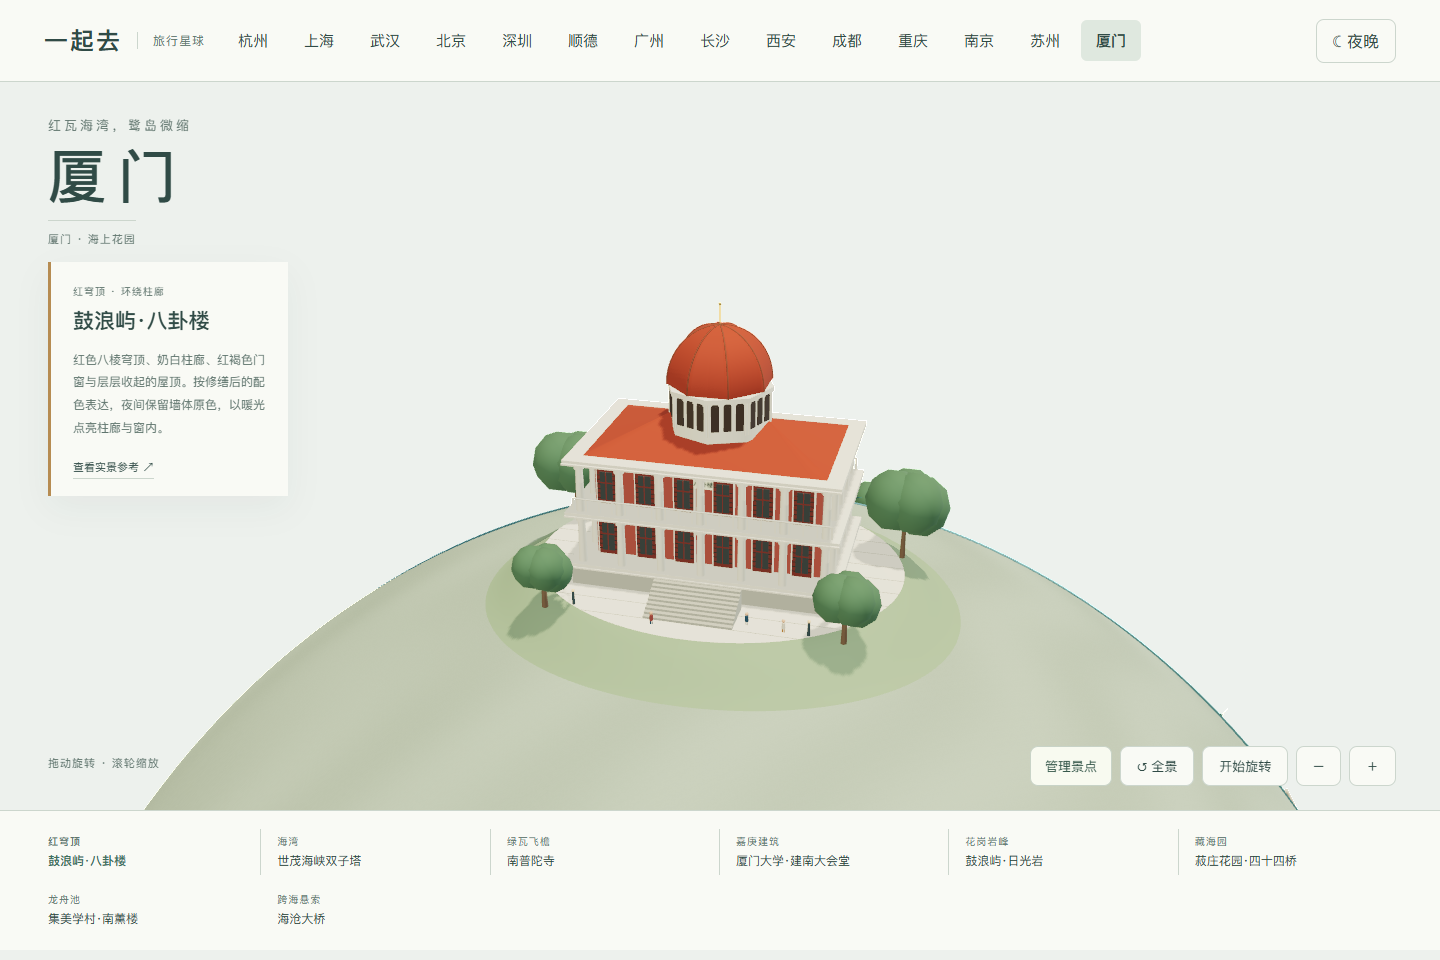
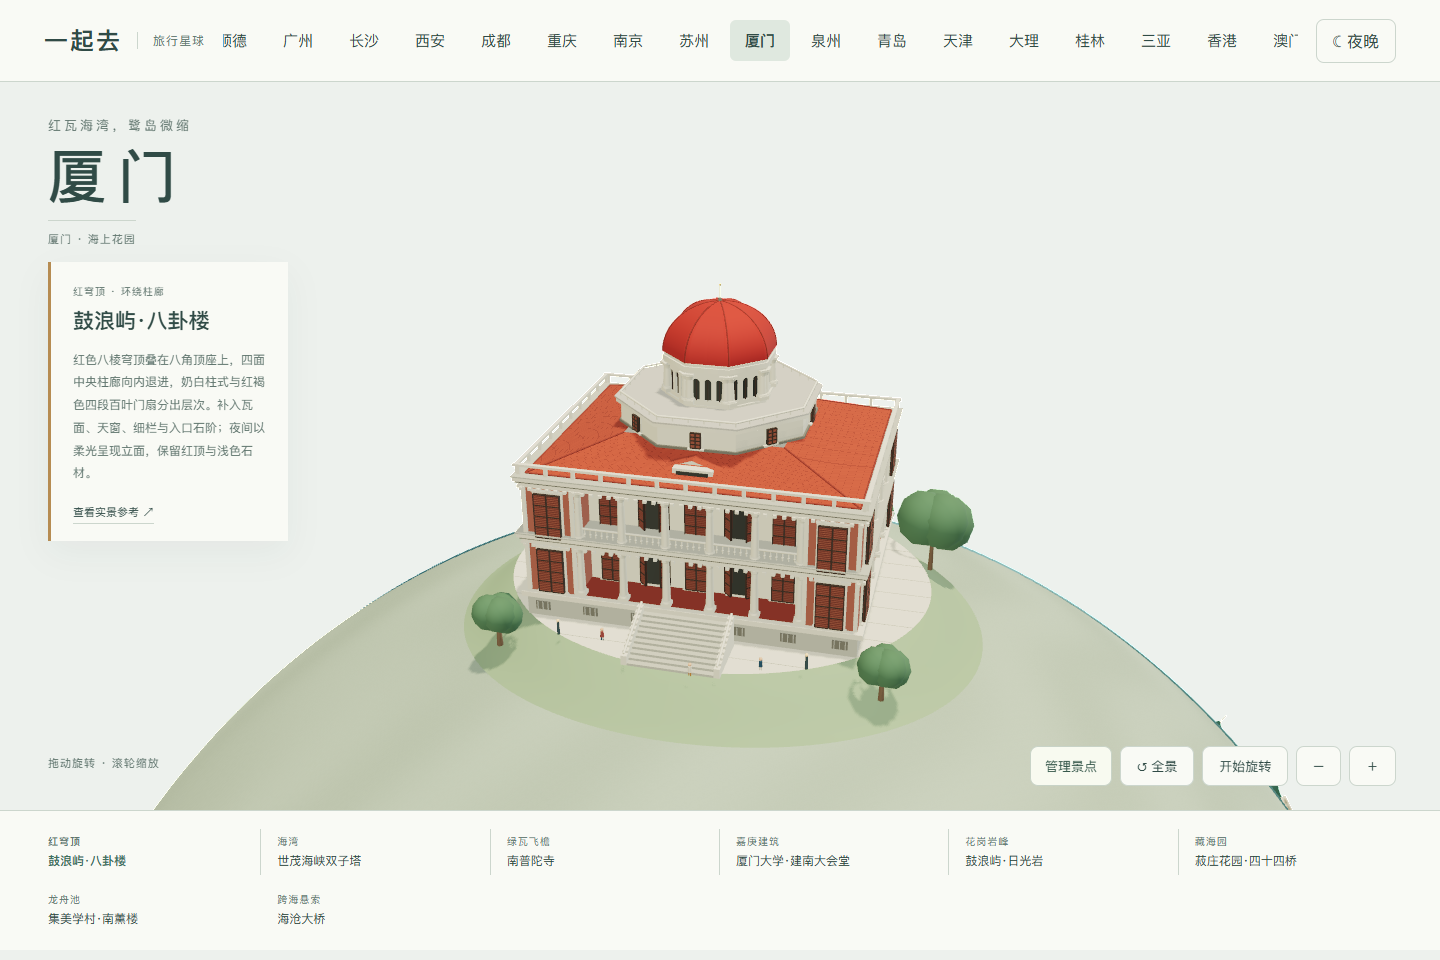
Rebuild Bagua House porticoes, shutters and octagonal roof tiers

diff --git a/web/xiamen-bagua.js b/web/xiamen-bagua.js
@@ -1,0 +1,57 @@
+import * as THREE from 'three';
+import {palette,site,paving,grove,sign,finish,skin,TAU,edge} from './xiamen-kit.js';
+
+function face(k,g,points,m){const pos=[];for(let i=1;i<points.length-1;i++)pos.push(...points[0],...points[i],...points[i+1]);const geo=new THREE.BufferGeometry();geo.setAttribute('position',new THREE.Float32BufferAttribute(pos,3));geo.computeVertexNormals();m.side=THREE.DoubleSide;return k.mesh(g,geo,m);}
+function tile(k){const m=k.mat('#a74932',.91,.015);m.onBeforeCompile=s=>{s.vertexShader='varying vec3 baguaTile;\n'+s.vertexShader.replace('#include <begin_vertex>','#include <begin_vertex>\nbaguaTile=position;');s.fragmentShader='varying vec3 baguaTile;\n'+s.fragmentShader.replace('#include <color_fragment>',`#include <color_fragment>
+ vec2 t=vec2(baguaTile.x+baguaTile.z,baguaTile.y)*180.0;
+ float joint=step(.055,fract(t.x))*step(.045,fract(t.y));
+ float variation=fract(sin(dot(floor(t),vec2(12.989,78.233)))*43758.5453);
+ diffuseColor.rgb*=mix(.77,.94+variation*.07,joint);`);};m.customProgramCacheKey=()=> 'bagua-red-tile-v1';return m;}
+function column(k,g,p,x,y,z,h){
+ k.box(g,.024,.009,.024,p.pale,x,y+.0045,z);k.cyl(g,.012,.013,.005,p.pale,x,y+.011,z,16);k.cyl(g,.0077,.010,h-.030,p.pale,x,y+h/2,z,20);k.cyl(g,.010,.008,.006,p.pale,x,y+h-.014,z,16);k.cyl(g,.013,.010,.005,p.pale,x,y+h-.0085,z,16);k.box(g,.026,.005,.026,p.pale,x,y+h-.003,z);
+}
+function balustrade(k,g,p,a,b,y){const av=new THREE.Vector3(...a),bv=new THREE.Vector3(...b),length=av.distanceTo(bv);for(const dy of [.004,.032])k.beam(g,[a[0],y+dy,a[2]],[b[0],y+dy,b[2]],.003,p.pale);const n=Math.max(2,Math.round(length/.014));for(let i=0;i<=n;i++){const q=av.clone().lerp(bv,i/n);k.cyl(g,.0018,.0018,.026,p.pale,q.x,y+.018,q.z,8);k.ball(g,.0031,p.pale,q.x,y+.018,q.z);}}
+function shutter(k,g,p,x,y,z,w=.048,h=.108,rotation=0,open=false){const f=new THREE.Group();f.position.set(x,y,z);f.rotation.y=rotation;g.add(f);k.box(f,w+.008,h+.009,.006,p.pale,0,0,0);k.box(f,w,h,.007,p.glass,0,0,.002);
+ for(const side of [-1,1]){const panel=new THREE.Group();panel.position.set(side*w*.25,0,.007);if(open){panel.position.x=side*w*.48;panel.rotation.y=side*.78;}f.add(panel);const pw=w*.48;k.box(panel,pw,h,.003,p.shutter);for(const x2 of [-pw/2,pw/2])k.box(panel,.002,h,.005,p.wood,x2,0,.002);for(let i=0;i<=4;i++)k.box(panel,pw,.003,.005,p.wood,0,(i/4-.5)*h,.002);for(let i=0;i<24;i++){const o=k.box(panel,pw-.004,.0018,.0036,p.slats,0,(i/24-.48)*h,.002);o.rotation.x=-.25;}}
+ k.box(f,w+.014,.004,.012,p.pale,0,-h/2-.005,.002);k.box(f,w+.012,.004,.009,p.pale,0,h/2+.006,.002);
+}
+function cornice(k,g,p,w,d,y){for(const [h,scale,dy,mat]of [[.010,1,-.008,p.pale],[.004,1.012,0,p.shadow],[.009,1.024,.007,p.pale],[.003,1.031,.014,p.stone]])k.box(g,w*scale,h,d*scale,mat,0,y+dy,0);for(const side of [-1,1]){for(let i=0;i<38;i++)k.box(g,.008,.007,.009,p.pale,(i/37-.5)*(w-.018),y-.016,side*(d/2+.001));for(let i=0;i<28;i++)k.box(g,.009,.007,.008,p.pale,side*(w/2+.001),y-.016,(i/27-.5)*(d-.018));}}
+function hipRoof(k,g,p,w,d,y,h){const out=[[-w/2,y,-d/2],[w/2,y,-d/2],[w/2,y,d/2],[-w/2,y,d/2]],inner=[[-.195,y+h,-.165],[.195,y+h,-.165],[.195,y+h,.165],[-.195,y+h,.165]];for(let i=0;i<4;i++){const j=(i+1)%4;face(k,g,[out[i],inner[i],inner[j],out[j]],p.tile);k.beam(g,out[i],inner[i],.0023,p.red);k.beam(g,out[i],out[j],.0022,p.red);}
+ // Shallow dormer windows sit on each roof slope, rather than a flat red slab.
+ for(const side of [-1,1]){const f=new THREE.Group();f.rotation.y=side===1?0:Math.PI;g.add(f);k.box(f,.096,.022,.022,p.pale,0,y+.021,.253);k.box(f,.076,.011,.003,p.glass,0,y+.021,.266);face(k,f,[[-.059,y+.035,.242],[.059,y+.035,.242],[0,y+.055,.242]],p.pale);face(k,f,[[-.065,y+.034,.267],[0,y+.056,.267],[0,y+.056,.225],[-.065,y+.034,.225]],p.tile);face(k,f,[[0,y+.056,.267],[.065,y+.034,.267],[.065,y+.034,.225],[0,y+.056,.225]],p.tile);}
+}
+function octagonalTier(k,g,p,r,y,h){const vertices=Array.from({length:8},(_,i)=>[Math.sin(Math.PI/8+i*TAU/8)*r,Math.cos(Math.PI/8+i*TAU/8)*r]);
+ for(let i=0;i<8;i++){const a=vertices[i],b=vertices[(i+1)%8];face(k,g,[[a[0],y,a[1]],[a[0],y+h,a[1]],[b[0],y+h,b[1]],[b[0],y,b[1]]],p.pale);const x=(a[0]+b[0])/2,z=(a[1]+b[1])/2;shutter(k,g,p,x,y+h/2,z,.025,h*.71,Math.atan2(x,z));}
+ for(let i=0;i<8;i++){const a=vertices[i],b=vertices[(i+1)%8];k.beam(g,[a[0],y+h+.023,a[1]],[b[0],y+h+.023,b[1]],.0028,p.pale);for(let j=0;j<5;j++)k.box(g,.003,.013,.003,p.pale,a[0]+(b[0]-a[0])*j/5,y+h+.017,a[1]+(b[1]-a[1])*j/5);}
+ for(const [radius,yy,thick,mat]of [[r+.005,y+.001,.006,p.shadow],[r+.012,y+h+.004,.010,p.pale],[r+.015,y+h+.011,.004,p.terrace]]){const o=k.cyl(g,radius,radius,thick,mat,0,yy,0,8);o.rotation.y=Math.PI/8;}
+}
+function drum(k,g,p){const y=.535,h=.088,r=.126;for(let i=0;i<8;i++){const angle=i*TAU/8,f=new THREE.Group();f.position.set(Math.sin(angle)*r*Math.cos(Math.PI/8),y,Math.cos(angle)*r*Math.cos(Math.PI/8));f.rotation.y=angle;g.add(f);const w=2*r*Math.sin(Math.PI/8);
+  // Three arched lights per drum face with a recessed dark interior.
+  const shape=new THREE.Shape();shape.moveTo(-w/2,0);shape.lineTo(w/2,0);shape.lineTo(w/2,h);shape.lineTo(-w/2,h);shape.closePath();for(const x of [-.028,0,.028]){const hole=new THREE.Path(),rr=.009;hole.moveTo(x-rr,.012);hole.lineTo(x-rr,.057);hole.absarc(x,.057,rr,Math.PI,0,true);hole.lineTo(x+rr,.012);hole.closePath();shape.holes.push(hole);const glassShape=new THREE.Shape();glassShape.moveTo(-rr,0);glassShape.lineTo(rr,0);glassShape.lineTo(rr,.045);glassShape.absarc(0,.045,rr,0,Math.PI,false);glassShape.closePath();k.mesh(f,new THREE.ShapeGeometry(glassShape),p.glass,x,.012,-.004);k.box(f,.0015,.052,.003,p.wood,x,.037,.001);}
+  k.mesh(f,new THREE.ExtrudeGeometry(shape,{depth:.004,bevelEnabled:false,curveSegments:16}),p.pale);for(const x of [-w*.46,w*.46])column(k,f,p,x,.005,.005,.076);k.box(f,w+.004,.006,.016,p.pale,0,.083,.003);
+ }
+ for(const [radius,yy,hh]of [[.136,.532,.010],[.140,.626,.012],[.136,.635,.006]]){const o=k.cyl(g,radius,radius,hh,p.pale,0,yy,0,8);o.rotation.y=Math.PI/8;}
+ const dome=(u,v)=>{const a=u*TAU,local=((a+Math.PI/8)%(Math.PI/4))-Math.PI/8,radius=.139*Math.cos(Math.PI/8)/Math.cos(local)*Math.cos(v*Math.PI/2);return [Math.sin(a)*radius,.640+Math.sin(v*Math.PI/2)*.119,Math.cos(a)*radius];};skin(k,g,dome,30,96,p.dome);
+ for(let i=0;i<8;i++)k.line(g,Array.from({length:24},(_,j)=>dome((i+.5)/8,j/23)),.0016,p.rib);k.cyl(g,.004,.005,.008,p.shadow,0,.762,0,12);k.beam(g,[0,.766,0],[0,.797,0],.001,p.stone);k.ball(g,.0022,p.gold,0,.798,0);
+}
+export function bagua(k){const g=new THREE.Group(),p=palette(k),ground=site(k,g,.69,.59);paving(k,g,p,.55,.46);p.pale.color.set('#d6d1bc');p.brick.color.set('#a56350');p.red.color.set('#8d3f2f');p.tile=tile(k);p.dome=k.mat('#ad372b',.82,.02);p.rib=k.mat('#873727',.86);p.shadow=k.mat('#79776a',.94);p.terrace=k.mat('#b7b4a8',.94);p.shutter=k.mat('#773f31',.91);p.slats=k.mat('#824b38',.90);p.glass=edge(k,'#373b35','#e4c79c',.16);p.glass.roughness=.52;for(const m of [p.pale,p.brick])m.userData.baguaMasonry=true;
+ k.box(g,.81,.055,.64,p.stone,0,.053,0);k.box(g,.835,.013,.655,p.pale,0,.084,0);
+ for(const side of [-1,1])for(let i=0;i<7;i++){const x=(i/6-.5)*.73;k.box(g,.037,.022,.003,p.shadow,x,.054,side*.321);for(const xx of [-.013,0,.013])k.box(g,.0015,.022,.004,p.stone,x+xx,.054,side*.323);}
+ // Inset occupied block and four porticoes leave actual depth behind the columns.
+ k.box(g,.65,.281,.45,p.pale,0,.232,0);for(const x of [-.337,.337])for(const z of [-.242,.242])k.box(g,.132,.281,.145,p.brick,x,.232,z);
+ for(const y of [.094,.240]){const h=.132;for(const side of [-1,1]){for(const x of [-.266,-.1596,-.0532,.0532,.1596,.266])column(k,g,p,x,y,side*.310,h);for(const z of [-.165,-.055,.055,.165])column(k,g,p,side*.399,y,z,h);
+  for(let i=0;i<5;i++)shutter(k,g,p,(i-2)*.1064,y+.062,side*.227,.055,.114,side===1?0:Math.PI,i%2===1);for(const x of [-.338,.338]){shutter(k,g,p,x,y+.061,side*.317,.066,.113,side===1?0:Math.PI);for(const xx of [x-.060,x+.060])k.box(g,.009,h,.008,p.pale,xx,y+h/2,side*.318);}
+  for(let i=0;i<3;i++)shutter(k,g,p,side*.327,y+.063,(i-1)*.110,.052,.111,side*Math.PI/2,i===1);for(const z of [-.246,.246])shutter(k,g,p,side*.405,y+.061,z,.071,.111,side*Math.PI/2);
+  k.box(g,.542,.007,.084,p.floor||p.red,0,y-.003,side*.269);k.box(g,.073,.007,.35,p.red,side*.364,y-.003,0);
+  if(y>.2){balustrade(k,g,p,[-.266,0,side*.310],[.266,0,side*.310],y);balustrade(k,g,p,[side*.399,0,-.165],[side*.399,0,.165],y);}
+ }}
+ cornice(k,g,p,.82,.64,.235);cornice(k,g,p,.82,.64,.383);
+ for(const side of [-1,1]){for(let i=0;i<=12;i++)k.box(g,.008,.020,.008,p.pale,(i/12-.5)*.81,.413,side*.320);k.box(g,.836,.006,.010,p.pale,0,.426,side*.320);for(let i=0;i<=9;i++)k.box(g,.008,.020,.008,p.pale,side*.410,.413,(i/9-.5)*.63);k.box(g,.010,.006,.65,p.pale,side*.410,.426,0);}
+ hipRoof(k,g,p,.79,.61,.400,.067);octagonalTier(k,g,p,.244,.467,.052);drum(k,g,p);
+ for(let i=0;i<10;i++){const h=.061*(i+1)/10;k.box(g,.205,h,.014,p.stone,0,.021+h/2,.465-i*.014);for(const side of [-1,1])k.box(g,.014,h+.018,.014,p.pale,side*.110,.021+(h+.018)/2,.465-i*.014);}
+ for(const side of [-1,1])k.beam(g,[side*.110,.050,.469],[side*.110,.104,.328],.003,p.pale);
+ sign(k,g,'八卦楼',.071,.020,0,.205,.231,{background:'#d6d1bc',color:'#514c3d'});
+ grove(k,g,(x,z)=>ground(x,z)+.018,[[-.53,-.29,.17],[.53,-.29,.17],[-.47,.36,.10],[.47,.36,.10]]);
+ finish(k,g,{lamps:[[-.30,.024,.39],[.30,.024,.39]],visitors:[[-.19,.024,.39],[.20,.024,.42],[.05,.024,.48]]});
+ for(const x of [-.28,.28]){const l=new THREE.SpotLight('#e5d9ba',0,1.15,.72,.8,2);l.position.set(x,.26,.64);l.target.position.set(x,.26,.24);l.userData.nightIntensity=.065;g.add(l,l.target);}return g;
+}

diff --git a/web/xiamen-island.js b/web/xiamen-island.js
@@ -1,25 +1,7 @@
 import * as THREE from 'three';
 import {palette,site,paving,steps,grove,sign,finish,hip,skin,TAU,edge,window,railing,palm,granite,sea,hall} from './xiamen-kit.js';
 
-export function bagua(k){
- const g=new THREE.Group(),p=palette(k),ground=site(k,g,.63,.53);paving(k,g,p,.48,.39);
- const terra=k.mat('#a7462b',.88);k.box(g,.66,.044,.42,p.stone,0,.045,0);k.box(g,.57,.28,.31,p.brick,0,.20,-.018);
- for(const y of [.075,.215,.355]){k.box(g,.68,.014,.43,p.pale,0,y,0);for(const z of [-.216,.216])k.box(g,.68,.004,.009,edge(k,p.pale.color),0,y-.002,z);}
- for(const y of [.078,.218])for(const s of [-1,1]){
-  for(let i=0;i<7;i++){const x=(i/6-.5)*.61;k.cyl(g,.009,.011,.13,p.pale,x,y+.065,s*.192,12);k.cyl(g,.013,.013,.009,p.pale,x,y+.121,s*.192,12);}
-  for(let i=0;i<6;i++)window(k,g,p,(i/5-.5)*.49,y+.065,s*.161,.048,.095);
-  for(const x of [-.307,.307])for(const z of [-.09,0,.09])k.cyl(g,.009,.011,.13,p.pale,x,y+.065,z,12);
- }
- for(const s of [-1,1])railing(k,g,p,[[-.32,.226,s*.204],[.32,.226,s*.204]],.032);
- skin(k,g,(u,v)=>{const a=u*TAU,c=Math.cos(a),s=Math.sin(a),norm=Math.max(Math.abs(c),Math.abs(s)),x=c/norm*.305,z=s/norm*.18;return [x*v+THREE.MathUtils.clamp(x,-.12,.12)*(1-v),.36+.07*(1-v),z*v];},8,96,terra);
- k.cyl(g,.128,.128,.105,p.pale,0,.455,0,8);k.cyl(g,.136,.136,.012,p.pale,0,.511,0,8);
- const dark=edge(k,'#4c3f35','#f1cd91',.26);for(let i=0;i<8;i++){const a=i/8*TAU+Math.PI/8,face=new THREE.Group();face.position.set(Math.sin(a)*.120,.465,Math.cos(a)*.120);face.rotation.y=a;g.add(face);for(const x of [-.030,0,.030]){k.box(face,.019,.063,.003,dark,x,0,0);k.mesh(face,new THREE.CircleGeometry(.0095,20,0,Math.PI),dark,x,.031,.001);}for(const x of [-.045,.045])k.cyl(face,.003,.003,.087,p.pale,x,0,0,8);}
- const dome=(u,v)=>{const a=u*TAU,local=((a+Math.PI/8)%(Math.PI/4))-Math.PI/8,r=.131*Math.cos(Math.PI/8)/Math.cos(local)*Math.cos(v*Math.PI/2);return [Math.sin(a)*r,.519+Math.sin(v*Math.PI/2)*.144,Math.cos(a)*r];};skin(k,g,dome,24,96,terra);
- for(let i=0;i<8;i++)k.line(g,Array.from({length:18},(_,j)=>dome((i+.5)/8,j/17)),.0018,k.mat('#884e32',.88));k.beam(g,[0,.66,0],[0,.713,0],.0015,p.gold);k.ball(g,.003,p.gold,0,.714,0);
- steps(k,g,p,0,.32,.22,9,.052,.10);sign(k,g,'八卦楼',.075,.026,0,.313,.164);
- grove(k,g,(x,z)=>ground(x,z)+.018,[[-.47,-.2,.19],[.46,-.16,.18],[-.37,.30,.12],[.37,.29,.13]]);
- return finish(k,g,{lamps:[[-.29,.025,.31],[.29,.025,.31]],visitors:[[-.08,.025,.35],[.14,.025,.30],[.23,.025,.31]]});
-}
+export {bagua} from './xiamen-bagua.js';
 export function sunlight(k){
  const g=new THREE.Group(),p=palette(k),ground=site(k,g,.64,.56);p.stone=k.mat('#b6b5a5',.98);
  granite(k,g,p,{x:-.15,y:.005,z:-.02,rx:.24,ry:.42,rz:.23,seed:2});granite(k,g,p,{x:.18,y:.005,z:.02,rx:.21,ry:.34,rz:.23,seed:4});

diff --git a/web/xiamen-landmarks.js b/web/xiamen-landmarks.js
@@ -2,7 +2,7 @@ import {bagua,sunlight,shuzhuang} from './xiamen-island.js';
 import {putuo,jiannan,jimei} from './xiamen-heritage.js';
 import {twins,haicang} from './xiamen-modern.js';
 export const LANDMARKS=[
- {id:'bagua',name:'鼓浪屿·八卦楼',area:'红穹顶 · 环绕柱廊',x:-1.08,z:.94,height:.75,distance:2.9,view:[.45,.80,1.8],description:'红色八棱穹顶、奶白柱廊、红褐色门窗与层层收起的屋顶。按修缮后的配色表达，夜间保留墙体原色，以暖光点亮柱廊与窗内。',source:'https://www.glyylq.cn/article.php?id=156'},
+ {id:'bagua',name:'鼓浪屿·八卦楼',area:'红穹顶 · 环绕柱廊',x:-1.08,z:.94,height:.83,distance:2.9,view:[.45,.80,1.8],description:'红色八棱穹顶叠在八角顶座上，四面中央柱廊向内退进，奶白柱式与红褐色四段百叶门扇分出层次。补入瓦面、天窗、细栏与入口石阶；夜间以柔光呈现立面，保留红顶与浅色石材。',source:'https://www.glyylq.cn/article.php?id=156'},
  {id:'twins',name:'世茂海峡双子塔',area:'海湾 · 双帆',x:1.08,z:.94,height:1.40,distance:3.1,view:[.5,.62,1.8],description:'两片高低错落的玻璃帆，斜切圆弧顶部、细密水平分缝与低矮裙房相连。夜景用紫蓝细边与缓慢变化的窗灯，保留玻璃的蓝灰底色。',source:'https://www.gensler.com/projects/xiamen-shimao-straits-tower'},
  {id:'putuo',name:'南普陀寺',area:'绿瓦飞檐 · 山寺荷塘',x:-1.08,z:-.94,height:.72,distance:3.05,view:[.35,1.02,1.8],description:'沿中轴排布入口殿、大雄宝殿与八角大悲殿，补入荷塘、台阶和两侧院廊。闽南翘脊、红柱与绿瓦相互区分，寺院后方以树冠收拢。',source:'https://twtemple.pixnet.net/blog/posts/16099080626'},
  {id:'jiannan',name:'厦门大学·建南大会堂',area:'嘉庚建筑 · 上弦场',x:1.08,z:-.94,height:.75,distance:3.05,view:[.25,.78,1.8],description:'中央高楼、较低侧翼、绿瓦燕尾脊与花岗岩色墙体形成层级。四根入口柱、大台阶、红褐百叶窗和棕榈共同保留建南楼群的识别点。',source:'https://jjc.xmu.edu.cn/info/1018/53831.htm'},

diff --git a/README.md b/README.md
@@ -1,6 +1,6 @@
 # 一起去 · Travel Planet
 
-用可旋转的 3D 城市星球发现景点，再和朋友一起决定怎么旅行。当前版本 **0.55.6**，支持桌面和手机网页。
+用可旋转的 3D 城市星球发现景点，再和朋友一起决定怎么旅行。当前版本 **0.55.7**，支持桌面和手机网页。
 
 **[上海旅行 · 在线体验](https://43.139.249.151/travel/shanghai-trip.html)** · **[杭州旅行](https://43.139.249.151/travel/)** · **[武汉旅行](https://43.139.249.151/travel/wuhan-trip.html)** · **[武汉纯地图](https://43.139.249.151/travel/wuhan.html)** · **[上海纯地图](https://43.139.249.151/travel/shanghai.html)** · **[北京地图](https://43.139.249.151/travel/beijing.html)** · **[深圳地图](https://43.139.249.151/travel/shenzhen.html)** · **[顺德地图](https://43.139.249.151/travel/shunde.html)** · **[广州地图](https://43.139.249.151/travel/guangzhou.html)** · **[长沙地图](https://43.139.249.151/travel/changsha.html)** · **[西安地图](https://43.139.249.151/travel/xian.html)** · **[成都地图](https://43.139.249.151/travel/chengdu.html)** · **[重庆地图](https://43.139.249.151/travel/chongqing.html)** · **[南京地图](https://43.139.249.151/travel/nanjing.html)** · **[苏州地图](https://43.139.249.151/travel/suzhou.html)** · **[厦门地图](https://43.139.249.151/travel/xiamen.html)** · **[泉州地图](https://43.139.249.151/travel/quanzhou.html)** · **[青岛地图](https://43.139.249.151/travel/qingdao.html)** · **[天津地图](https://43.139.249.151/travel/tianjin.html)** · **[大理地图](https://43.139.249.151/travel/dali.html)** · **[桂林地图](https://43.139.249.151/travel/guilin.html)** · **[三亚地图](https://43.139.249.151/travel/sanya.html)** · **[香港地图](https://43.139.249.151/travel/hongkong.html)** · **[澳门地图](https://43.139.249.151/travel/macau.html)**
 

diff --git a/docs/XIAMEN_REFERENCES.md b/docs/XIAMEN_REFERENCES.md
@@ -14,3 +14,18 @@
 | 海沧大桥 | [中交项目报道所配照片](https://k.sina.cn/article_1740522895_67be458f027011wyn.html) | 双门式塔、下垂主缆、竖向吊杆、车道和桥面灯带。只表现主要悬索跨，不声称按真实里程缩尺。 |
 
 本版提供景观浏览、日夜、自由旋转、整组管理和手机布局。厦门尚未接入多人旅行目录，不套用杭州、上海、武汉的行程数据，也不提供未经核验的营业时间、票价或预约承诺。
+
+
+## 0.55.7 八卦楼柱廊与顶座精修
+
+对照[景区正面照片](https://www.glyylq.cn/article.php?id=156)与[厦门晚报修缮后实拍](https://www.fjdaily.com/app/content/2024-02/03/content_2337014.html)，重建四面中央退进的柱廊、转角砖墙、上下层柱式和细栏。红褐色四段通高百叶门扇、红砖廊面依据修缮后的外观；[厦门日报现场报道](https://news.xmnn.cn/xmxw/202402/t20240207_126981.html)说明了门窗复原的依据。没有把早年米黄门窗继续当作现状。
+
+低坡红瓦屋面补入天窗、齿状檐口和低栏，中央白色八角顶座承托有真实拱窗的鼓座及八棱红穹顶。正面石阶、侧廊和柱间进深可在旋转后看到。夜景保留红顶、红褐木门及浅色石材，以低亮暖白光表现前廊，不将整面建筑点成黄色。
+
+这是建筑外观的微缩表达，不含馆内完整展厅、附楼和完整真实庭园；夜景属于展示设计，不代表景区实际夜间开放或灯光节目。照片仅用于观察，没有收进网站或源码包。八组模块布局、其他城市以及三城多人旅行未改变。
+
+![八卦楼日景](images/xiamen-bagua.png)
+
+![八卦楼四面柱廊](images/xiamen-bagua-oblique.png)
+
+![八卦楼夜间展示](images/xiamen-bagua-night.png)

diff --git a/docs/TESTING.md b/docs/TESTING.md
@@ -245,3 +245,10 @@ python tools/travel-flow-check.py
 326 项完整测试、331 项 JavaScript 语法与 4 项苏州专项通过。新增射线检查验证入口门庭通透、侧墙保留、玻璃天窗真实下凹且周围石材屋面完整；保留两半球净空、球面落地、整组资源和灯光管理。
 
 2026-11-04 07:44—07:48 核看两轮草稿及正式模型日夜、正侧背、320，修正侧墙整面变暗的问题。完整浏览器第一次在静态平江路检查动态而失败，已明确选择带动态灯光的东方之门，重跑通过八组日夜、模块保存恢复、触控键盘、320—1440 与 WebGL 恢复，异常和业务写入为 0。手机为浏览器模拟，未替代物理设备性能验证。
+
+
+## 0.55.7 八卦楼柱廊与顶座精修
+
+327 项完整测试、332 项 JavaScript 语法与 4 项厦门专项通过。新增射线检查确认正面和侧面的柱廊真实退进、柱身保留、八角鼓座拱窗有实际开口。原八组两半球布局、球面净空、动态及整组资源释放检查保留。
+
+2026-11-04 07:57—08:01 对照修缮后照片完成两轮隔离草稿和正式模型日夜、正侧背、320 实际核看，修正内墙颜色、顶部露台和照明热点。完整浏览器通过八组日夜、模块保存恢复、触控键盘、320—1440 与 WebGL 恢复，异常和业务写入为 0。手机为浏览器模拟，不代表物理设备性能测评。
